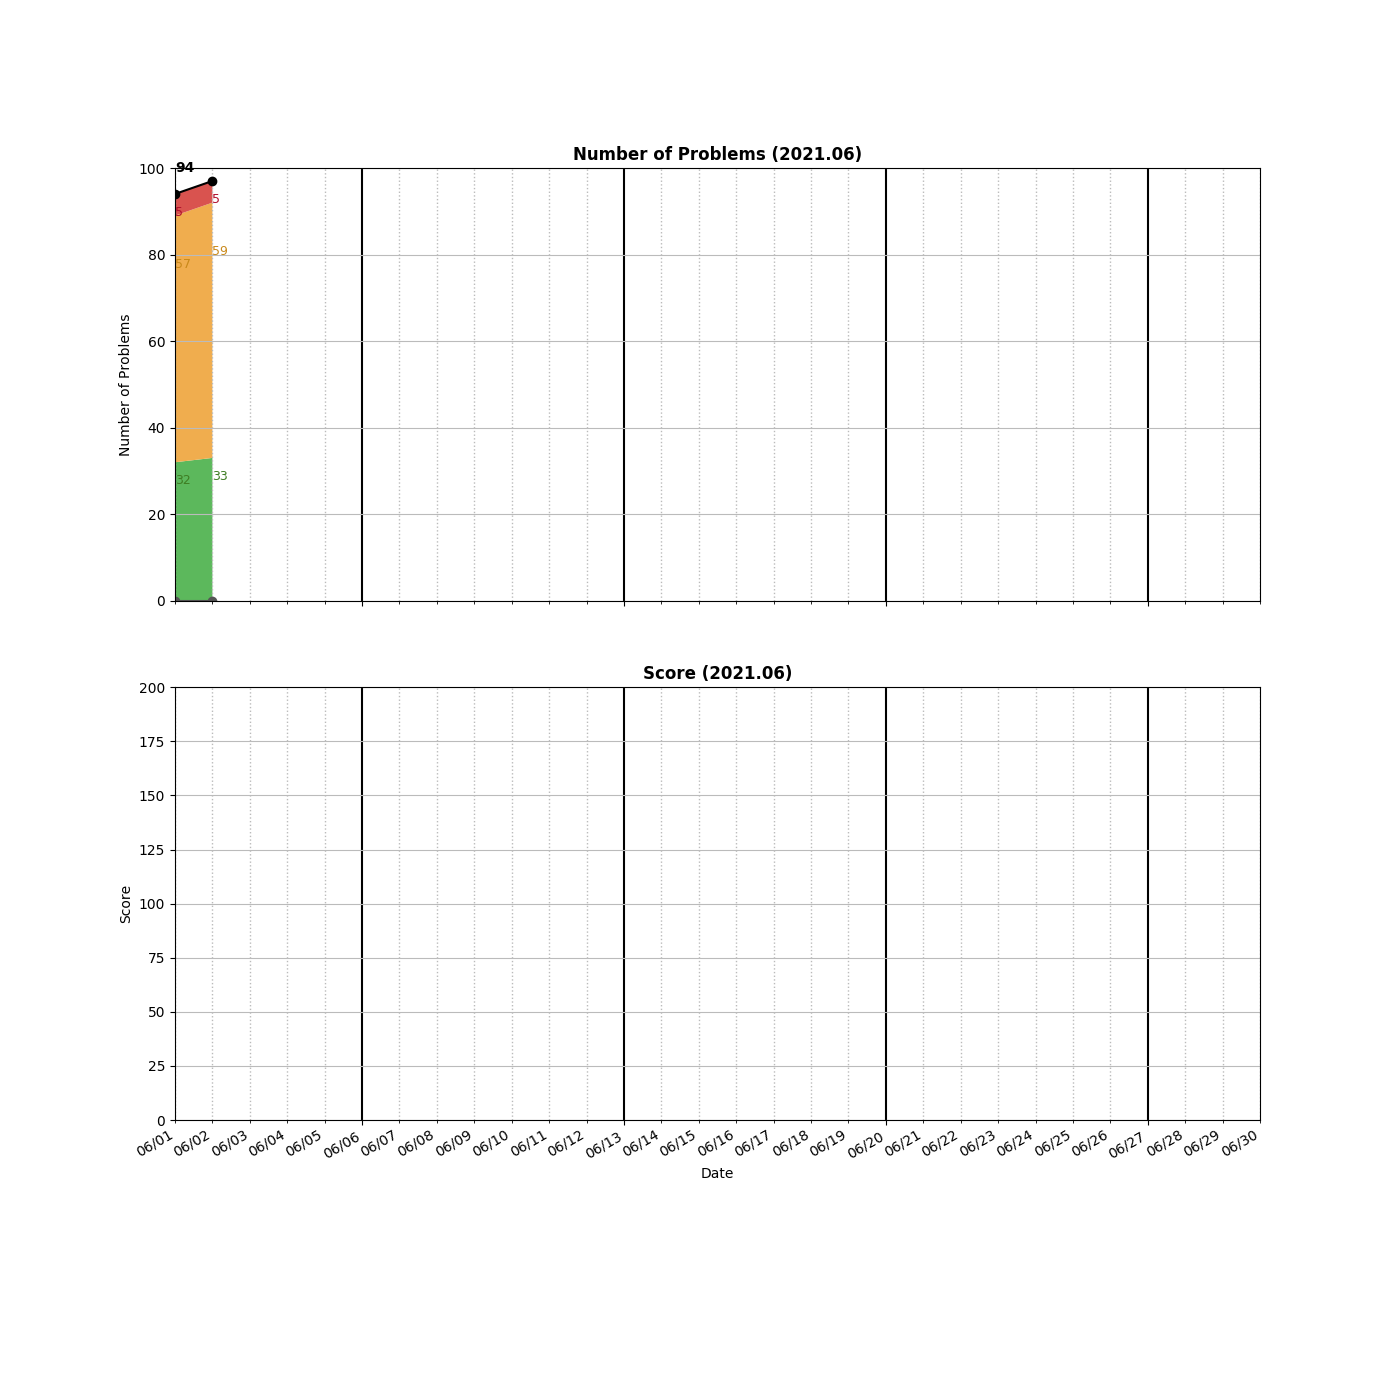
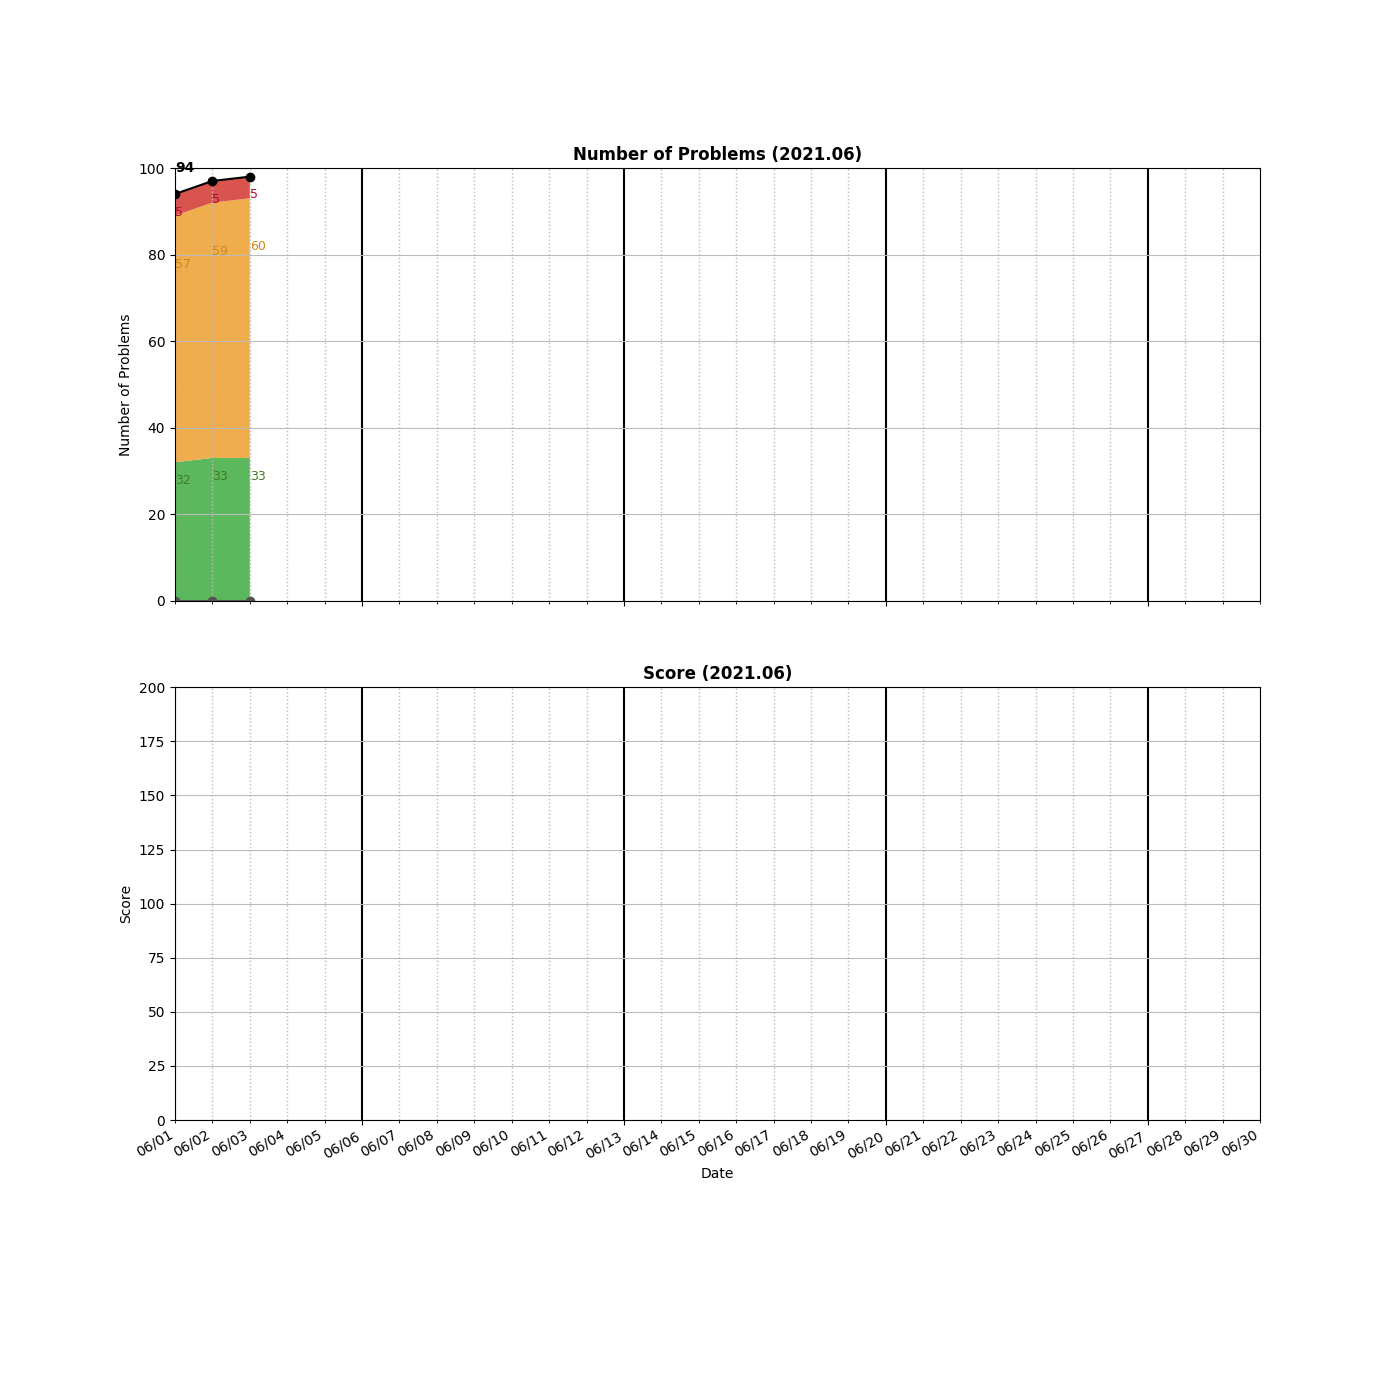
Added __0208__Implement Trie (Prefix Tree).py

Changed region(s): [[0.1536, 0.1229, 0.1843, 0.43]]

diff --git a/algo/BFS/__0127__Word Ladder.py b/algo/BFS/__0127__Word Ladder.py
@@ -1,5 +1,80 @@
 class Solution:
     
+    # BFS, using distance dict to save one for-loop [22%]
+    def ladderLength(self, beginWord: str, endWord: str, wordList: List[str]) -> int:
+        print("Using distance dict")
+        if not beginWord or not endWord or not wordList:
+            return 0
+        self.alphabets = "abcdefghijklmnopqrstuvwxyz"
+        
+        deq = collections.deque([beginWord])
+        visited = set([beginWord]) #Add beginWord at start
+        wordSet = set(wordList)    #TLE if using wordList
+        distance = {beginWord: 1}
+        
+        while deq:
+            cur = deq.popleft()
+            #print(cur)
+            if endWord == cur:
+                return distance[cur]
+            for nextWord in self.getNextWords(cur, wordSet):
+                if nextWord in visited:
+                    continue
+                #print(">", nextWord)
+                deq.append(nextWord)
+                visited.add(nextWord)
+                distance[nextWord] = distance[cur] + 1
+            #print("---")
+        return 0
+    
+    def getNextWords(self, word, wordSet):  
+        nextWords = []
+        for i in range(len(word)):
+            for alphabet in self.alphabets:
+                newWord = word[:i] + alphabet + word[i+1:]
+                if newWord in wordSet:
+                    nextWords.append(newWord)
+        return nextWords
+    
+    # =====================================
+    
+    # BFS, using layer [34%]
+    def ladderLength1(self, beginWord: str, endWord: str, wordList: List[str]) -> int:
+        print("Using layer variable")
+        if not beginWord or not endWord or not wordList:
+            return 0
+        self.alphabets = "abcdefghijklmnopqrstuvwxyz"
+        
+        deq = collections.deque([beginWord])
+        visited = set([])
+        wordSet = set(wordList) #TLE if using wordList
+        layer = 0
+        while deq:
+            layer += 1
+            for _ in range(len(deq)):
+                cur = deq.popleft()
+                #print(cur)
+                if cur == endWord:
+                    return layer
+                for nextWord in self.getNextWords1(cur, wordSet):
+                    if nextWord in visited:
+                        continue
+                    deq.append(nextWord)
+                    visited.add(nextWord)
+            #print("---")
+        return 0
+    
+    def getNextWords1(self, word, wordSet):  
+        nextWords = []
+        for i in range(len(word)):
+            for alphabet in self.alphabets:
+                newWord = word[:i] + alphabet + word[i+1:]
+                if newWord in wordSet:
+                    nextWords.append(newWord)
+        return nextWords
+
+    # =====================================
+
     # BFS [O(26*L*N), 43%]
     def ladderLength(self, beginWord: str, endWord: str, wordList: List[str]) -> int:
         if not beginWord or not endWord or not wordList:

diff --git a/algo/Tree/__0208__Implement Trie (Prefix Tree).py b/algo/Tree/__0208__Implement Trie (Prefix Tree).py
@@ -1,0 +1,57 @@
+class Node():
+    def __init__(self, ch = ""):
+        self.char = ch
+        self.charmap = {}
+        self.isEnd = False
+        
+class Trie:
+
+    def __init__(self):
+        """
+        Initialize your data structure here.
+        """
+        self.root = Node()
+
+    def insert(self, word: str) -> None:
+        """
+        Inserts a word into the trie.
+        """
+        cur = self.root
+        for ch in word:
+            if ch in cur.charmap:
+                cur = cur.charmap[ch]
+            else:
+                nextNode = Node(ch)
+                cur.charmap[ch] = nextNode
+                cur = nextNode
+        cur.isEnd = True
+
+    def search(self, word: str) -> bool:
+        """
+        Returns if the word is in the trie.
+        """
+        cur = self.root
+        for ch in word:
+            if ch not in cur.charmap:
+                return False
+            cur = cur.charmap[ch]
+        # if len(cur.charmap) != 0:
+        return cur.isEnd
+        
+    def startsWith(self, prefix: str) -> bool:
+        """
+        Returns if there is any word in the trie that starts with the given prefix.
+        """
+        cur = self.root
+        for ch in prefix:
+            if ch not in cur.charmap:
+                return False
+            cur = cur.charmap[ch]
+        return True
+
+
+# Your Trie object will be instantiated and called as such:
+# obj = Trie()
+# obj.insert(word)
+# param_2 = obj.search(word)
+# param_3 = obj.startsWith(prefix)

diff --git a/README.md b/README.md
@@ -84,6 +84,7 @@ algo
 │   ├── __0114__Flatten\ Binary\ Tree\ to\ Linked\ List.py
 │   ├── __0144__Binary\ Tree\ Preorder\ Traversal.py
 │   ├── __0173__Binary\ Search\ Tree\ Iterator.py
+│   ├── __0208__Implement\ Trie\ (Prefix\ Tree).py
 │   ├── __0226__Invert\ Binary\ Tree.py
 │   ├── __0230__Kth\ Smallest\ Element\ in\ a\ BST.py
 │   ├── __0235__Lowest\ Common\ Ancestor\ of\ a\ Binary\ Search\ Tree.py
@@ -113,7 +114,7 @@ algo
     ├── __0969__Pancake\ Sorting.py
     └── __1099__Two\ Sum\ Less\ Than\ K.py
 
-15 directories, 97 files
+15 directories, 98 files
 
 =====================================
 ============= Local Repo ============
@@ -178,6 +179,7 @@ __0199__Binary Tree Right Side View.py
 __0200__Number of Islands.py
 __0206__Reverse Linked List.py
 __0207__Course Schedule.py
+__0208__Implement Trie (Prefix Tree).py
 __0210__Course Schedule II.py
 __0215__Kth Largest Element in an Array.py
 __0216__Combination Sum III.py
@@ -215,7 +217,7 @@ __0922__Sort Array By Parity II.py
 __0969__Pancake Sorting.py
 __1099__Two Sum Less Than K.py
 =====================================
-Num of Python Practice:  96
+Num of Python Practice:  97
 
 
 =====================================
@@ -282,6 +284,7 @@ Num of Python Practice:  96
  0200 Number of Islands
  0206 Reverse Linked List
  0207 Course Schedule
+ 0208 Implement Trie (Prefix Tree)
  0210 Course Schedule II
  0215 Kth Largest Element in an Array
  0216 Combination Sum III
@@ -320,10 +323,10 @@ Num of Python Practice:  96
  1099 Two Sum Less Than K
 =====================================
 Solved / Total (Easy)  :   33 /  495
-Solved / Total (Medium):   59 /  994
+Solved / Total (Medium):   60 /  994
 Solved / Total (Hard)  :    5 /  395
-Solved / Total (All)   :   97 / 1884
-Total Score            :  235
+Solved / Total (All)   :   98 / 1884
+Total Score            :  238
 =====================================
 
 ```
